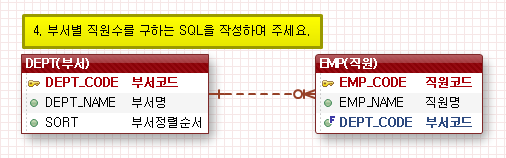
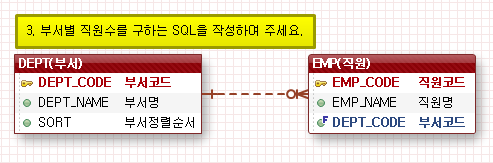
solutis 신입 개발자 면접 문제

Changed region(s): [[0.0, 0.0759, 1.0, 0.9367]]

diff --git a/src/main/webapp/index.html b/src/main/webapp/index.html
@@ -5,13 +5,7 @@
   <title>Title</title>
 </head>
 <body>
-  <!-- 1. 화면에 어떻게 그려질지 결과를 작성하여 주세요. -->
-  <div>1</div>
-  <div>2</div>
-  <span>3</span>
-  <span>4</span>
-
-  <!-- 2. console.log(o1.name) 의 출력 결과를 작성하여 주세요. -->
+  <!-- 1. console.log(o1.name) 의 출력 결과를 작성하여 주세요. -->
   <script>
     var o1 = {name: 'kim'};
     var o2 = o1;

diff --git a/src/test/java/kr/co/solutis/Interview.java b/src/test/java/kr/co/solutis/Interview.java
@@ -19,7 +19,9 @@ public class Interview {
     }
 
     /**
-     * 3. 파라미터 p1의 반대값을 리턴하도록 로직을 수정하여 주세요.
+     * 2. 파라미터 p1의 반대값을 리턴하도록 로직을 수정하여 주세요.
+     * p1 값이 true 이면 false를 리턴하고
+     * p1 값이 false 이면 true를 리턴한다.
      * @param p1
      * @return p1의 반대값
      */
